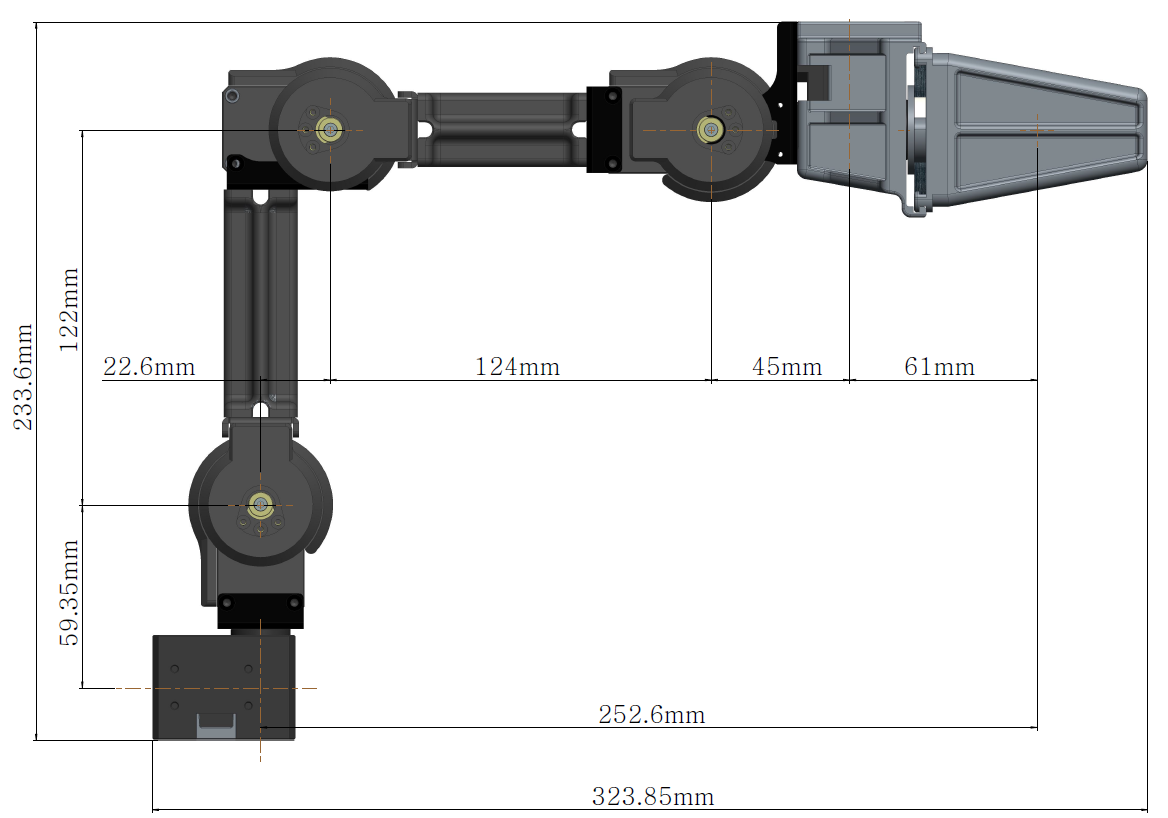
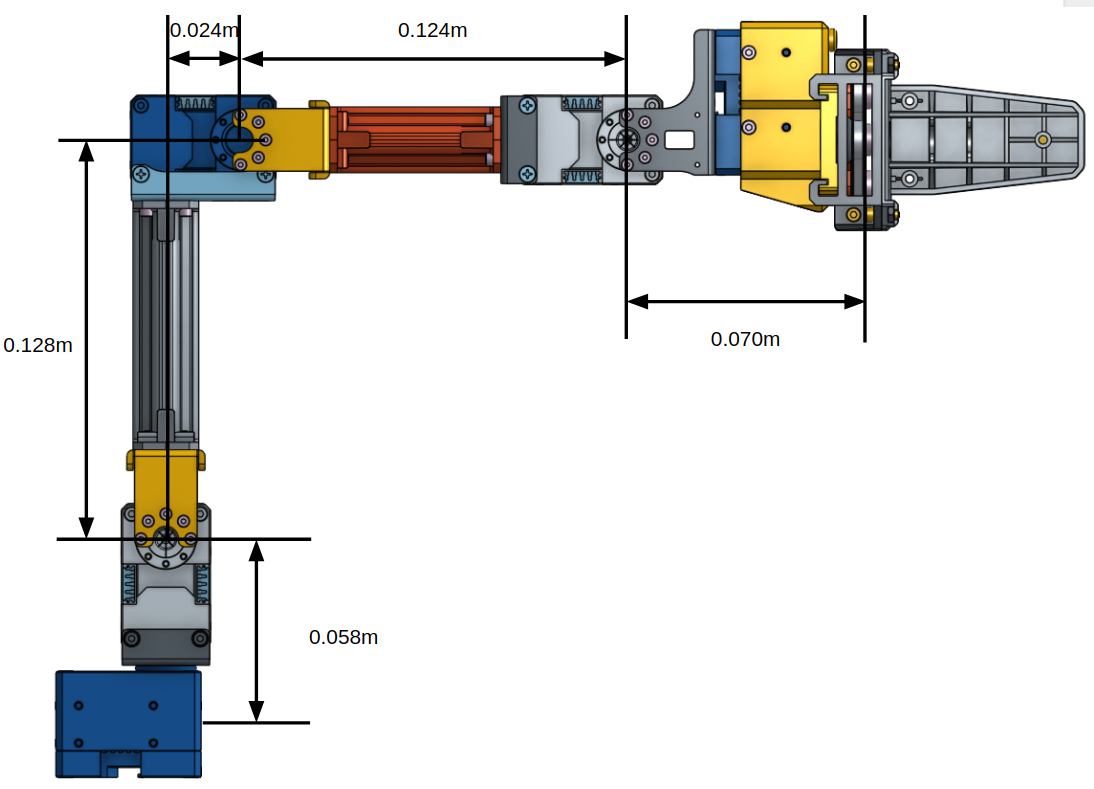
update spec for chain

diff --git a/docs/en/platform/openmanipulator.md b/docs/en/platform/openmanipulator.md
@@ -23,7 +23,7 @@ ROS-enabled OpenManipulator is a full open robot platform consisting of **OpenSo
 OpenManipulator are based on ROS and OpenSource. ROS official hardware platform ,TurtleBot series has been supporting ‘TurtleBot Arm’. The OpenManipulator has full hardware compatibility with TurtleBot3, and allows users to control it more easily by linking with the MoveIT! package. Even if you do not have a real robot, you can control the robot in the Gazebo simulator.
 
 ## [OpenHardware](#openhardware)
-The OpenManipulator is oriented towards Open Hardware. Most of the components except for some frames are uploaded as [STL files](http://www.robotis.com/service/download.php?no=767) that can be 3d printing. This allows users to modify the length of the link and the design of the robot to suit the intended use. The open manipulator also uses the **Dynamixel X series** used in TurtleBot 3. Dynamixel has a modular form and adopts daisy chain method. This allows users to easily change and add joints for some torque and degree of freedom they need. Taking advantage of these advantages, we are planning a total of seven different types (For example, Chain, SCARA, Link, Planar, Delta, Stewart and Linear) of OpenManipulator.
+The OpenManipulator is oriented towards Open Hardware. Most of the components except for some frames are uploaded as [STL files](http://www.robotis.com/service/download.php?no=690) that can be 3d printing. This allows users to modify the length of the link and the design of the robot to suit the intended use. The open manipulator also uses the **Dynamixel X series** used in TurtleBot 3. Dynamixel has a modular form and adopts daisy chain method. This allows users to easily change and add joints for some torque and degree of freedom they need. Taking advantage of these advantages, we are planning a total of seven different types (For example, Chain, SCARA, Link, Planar, Delta, Stewart and Linear) of OpenManipulator.
 
 ![](/assets/images/platform/openmanipulator/OpenManipulator_Chain_OnShape.jpg)
 
@@ -39,8 +39,6 @@ OpenManipulator is composed by [Dynamixel X series](http://emanual.robotis.com/d
 <iframe src="https://player.vimeo.com/video/236147296" width="640" height="360" frameborder="0" webkitallowfullscreen mozallowfullscreen allowfullscreen></iframe>
 <p><a href="https://vimeo.com/236147296">ROSCon 2017 Vancouver Day 1: Introducing OpenManipulator; the full open robot platform</a> from <a href="https://vimeo.com/osrfoundation">OSRF</a> on <a href="https://vimeo.com">Vimeo</a>.</p>
 
-<iframe width="560" height="315" src="https://www.youtube.com/embed/eJTIeDepmNo" frameborder="0" gesture="media" allow="encrypted-media" allowfullscreen></iframe>
-
 <iframe width="560" height="315" src="https://www.youtube.com/embed/B2pnXtooKOg" frameborder="0" gesture="media" allow="encrypted-media" allowfullscreen></iframe>
 
 <iframe width="560" height="315" src="https://www.youtube.com/embed/Qhvk5cnX2hM" frameborder="0" gesture="media" allow="encrypted-media" allowfullscreen></iframe>
@@ -51,39 +49,90 @@ OpenManipulator is composed by [Dynamixel X series](http://emanual.robotis.com/d
 
 ## [Hardware Specification](#hardware-specification)
 
-|                     | Unit    | Chain with XM430-W350                   |
-| ------------------- | ------- | --------------------------------------- |
-| **Input Voltage**   | V       | 12                                      |
-| **DOF**             | -       | 5 (4 DOF + 1 DOF Gripper)               |
-| **Payload**         | g       | 300 ~ 1000                              |
-| **Speed(Joint)**    | rad/sec | 4.82                                    |
-| **Weight**          | kg(lb)  | 0.7 (1.54)                              |
-| **Reach**           | mm (in) | 380 (14.9)                              |
-| **Rated Voltage**   | VDC     | 12                                      |
-| **Communication**   | -       | RS-485 (Multi Drop Bus)                 |
-| **Power(Joint)**    | W       | 27.6                                    |
-| **Software**        | -       | ROS, Dynamixel SDK, Arduino, Processing |
-| **Main Controller** | -       | Laptop PC, OpenCR                       |
+| Items               | Unit    | RM-X52-TNM                              | RM-X52-TNL                              |
+| ------------------- | ------- | --------------------------------------- |-----------------------------------------|
+| **Actuator**        |         | Dynamixel XM430-W350-T                  | Dynamixel XL430-W250-T                  |
+| **Input Voltage**   | V       | 12                                      | 12                                      |
+| **DOF**             | -       | 5 (4 DOF + 1 DOF Gripper)               | 5 (4 DOF + 1 DOF Gripper)               |
+| **Payload**         | g       | 500                                     | 50                                      |
+| **Speed(Joint)**    | RPM     | 46                                      | 61                                      |
+| **Weight**          | kg (lb) | 0.70  (1.54)                            | 0.51  (1.12)                            |
+| **Reach**           | mm (in) | 380   (14.9)                            | 380   (14.9)                            |
+| **Grip range**      | mm (in) | 20~75 (0.79~2.95)                       | 20~75 (0.79~2.95)                       |
+| **Communication**   | -       | TTL (Level Multidrop BUS)               | TTL (Level Multidrop BUS)               |
+| **Software**        | -       | ROS, Dynamixel SDK, Arduino, Processing | ROS, Dynamixel SDK, Arduino, Processing |
+| **Main Controller** | -       | Laptop PC, OpenCR                       | Laptop PC, OpenCR                       |
 
 ## [Dimension](#dimension)
 
 ![](/assets/images/platform/openmanipulator/OpenManipulator_Chain_spec_side.png)
 
-![](/assets/images/platform/openmanipulator/OpenManipulator_Chain_spec_gripper.jpg)
+<!-- ![](/assets/images/platform/openmanipulator/OpenManipulator_Chain_spec_gripper.jpg) -->
 
 # [Hardware Setup](#hardware-setup)
 
-[Parts of OpenManipulator](https://docs.google.com/a/robotis.com/spreadsheets/d/1h46Vw3amU0FZl3JSRS42BNoAaKeJoDlHAJGMKVe05ts/edit?usp=sharing)
+## [Part Lists](#part-lists)
 
-  * Items that are painted in purple in above link are purchased on ROBOTIS SHOP
-  * Items that are painted in green in above link are purchased on shopping mall
-  * Items that are painted in yellow in above link are 3D printing parts
+|              | Part Name | RM-X52-TNM | RM-X52-TNL |
+|---------     |---------- |---------   |----------  |
+|**Chassis Parts** |LONG LINK FRAME|1|1|
+|.                 |SHORT LINK FRAME|1|1|
+|.                 |RAIL BRACKET(LEFT)|1|1|
+|.                 |RAIL BRACKET(RIGHT)|1|1|
+|.                 |PALM GRIPPER|2|2|
+|.                 |LINK ROD|2|2|
+|.                 |FLANGE BUSH|4|4|
+|.                 |CRANK ARM|1|1|
+|.                 |RAIL BLOCK|2|2|
+|.                 |FR12_S101_K|1|1|
+|.                 |FR12_S102_K|2|2|
+|.                 |FR12_H101_K|2|2|
+|.                 |FR12_H104_K|1|1|
+|**Actuators**     |Dynamixel XM430-W350-T|5|0|
+|.                 |Dynamixel XL430-W250-T|0|5|
+|**Boards**        |OpenCR|1|1|
+|.                 |U2D2|1|1|
+|**Cables**        |CABLE_3P_100MM|1|1|
+|.                 |CABLE_3P_180MM|3|3|
+|.                 |CABLE_3P_240MM|1|1|
+|**Powers**        |SMPS 12V5A|1|1|
+|.                 |A/C Cord|1|1|
+|**Tools**         |SCREW_DRIER_DEFAULT|1|1|
+|.                 |Wrench_Hex_1_5X90|1|1|
+|.                 |Wrench_Hex_2_0X100|1|1|
+|.                 |Wrench_Hex_2_5X110|1|1|
+|**Miscellaneous** |DC12_A01_SPACER_RING|24|24|
+|.                 |WB_M2_5X12_NYLOK|8|8|
+|.                 |NUT_M2_5(0.45P)|16|16|
+|.                 |NUT_M3|4|4|
+|.                 |WB_M2X03|42|42|
+|.                 |WB_M2X04|4|4|
+|.                 |WB_M2_5X06|8|8|
+|.                 |WB_M2_5X08|16|16|
+|.                 |FHS_M2_5X14|12|12|
+|.                 |WB_M3X10|4|4|
+|.                 |WB_M2_5X04|8|8|
+|.                 |HN12_I101|3|3|
+|.                 |IGUS_JFM_1113_05|3|3|
+|.                 |DC12_CAP_IDLE|3|3|
+|.                 |GRIPPER_PAD|2|2|
 
-[DIY Manual](https://drive.google.com/open?id=1c5U0v2dQhYiulqiWI0VQMameG82WCc-4rl6J6zlQejA)
 
-CAD Files ([Onshape](http://www.robotis.com/service/download.php?no=690), [Thingiverse](https://www.thingiverse.com/thing:3069574))
+<!-- - [Parts of OpenManipulator](https://docs.google.com/a/robotis.com/spreadsheets/d/1h46Vw3amU0FZl3JSRS42BNoAaKeJoDlHAJGMKVe05ts/edit?usp=sharing) -->
+
+<!-- [DIY Manual](https://drive.google.com/open?id=1c5U0v2dQhYiulqiWI0VQMameG82WCc-4rl6J6zlQejA) -->
+
+## [3D Printed Parts](#3d-printed-parts)
+
+We offer 3D printed parts to safety. User can modify cad files and 3D Printed it to assemble OpenManipulator.
+
+- CAD Files ([Onshape](http://www.robotis.com/service/download.php?no=690), [Thingiverse](https://www.thingiverse.com/thing:3069574))
 
 ![](/assets/images/platform/openmanipulator/OpenManipulator_Chain_OnShape.jpg)
+
+## [Assembly Manual](#assembly-manual)
+
+<iframe width="560" height="315" src="https://www.youtube.com/embed/eJTIeDepmNo" frameborder="0" gesture="media" allow="encrypted-media" allowfullscreen></iframe>
 
 # [Software Setup](#software-setup)
 
@@ -364,17 +413,16 @@ Gripping (parameters : `grip_on`, `grip_off`, `neutral`)
 
 ![](/assets/images/platform/openmanipulator/OpenManipulator_SCARA_Capture.png)
 
-|                     | Unit    | Chain with XM430-W350                   |
+| Items               | Unit    |                                         |
 | ------------------- | ------- | --------------------------------------- |
+| **Actuator**        |         | Dynamixel XM430-W350-T                  |
 | **Input Voltage**   | V       | 12                                      |
 | **DOF**             | -       | 4 (3 DOF + 1 End-Effector)              |
-| **Speed(Joint)**    | rad/sec | 4.82                                    |
+| **Speed(Joint)**    | RPM     | 46                                      |
 | **Weight**          | kg(lb)  | 0.52 (1.14)                             |
 | **Reach**           | mm (in) | 234 (9.21)                              |
-| **Rated Voltage**   | VDC     | 12                                      |
-| **Communication**   | -       | RS-485 (Multi Drop Bus)                 |
-| **Power(Joint)**    | W       | 27.6                                    |
-| **Software**        | -       | ROS, Dynamixel SDK, Arduino, Processing |
+| **Communication**   | -       | TTL (Level Multidrop BUS)               |
+| **Software**        | -       | Dynamixel SDK, Arduino, Processing      |
 | **Main Controller** | -       | Laptop PC, OpenCR                       |
 
 ### Dimension
@@ -383,13 +431,11 @@ Gripping (parameters : `grip_on`, `grip_off`, `neutral`)
 
 ### Hardware Setup
 
-[Parts of OpenManipulator](https://docs.google.com/spreadsheets/d/1h46Vw3amU0FZl3JSRS42BNoAaKeJoDlHAJGMKVe05ts/edit#gid=1916070381)
+<!-- [Parts of OpenManipulator](https://docs.google.com/spreadsheets/d/1h46Vw3amU0FZl3JSRS42BNoAaKeJoDlHAJGMKVe05ts/edit#gid=1916070381) -->
 
-  * Items that are painted in purple in above link are purchased on ROBOTIS SHOP
-  * Items that are painted in green in above link are purchased on shopping mall
-  * Items that are painted in yellow in above link are 3D printing parts
+#### 3D Printed Parts
 
-CAD Files ([Onshape](http://www.robotis.com/service/download.php?no=691), [Thingiverse](https://www.thingiverse.com/thing:3069581))
+- CAD Files ([Onshape](http://www.robotis.com/service/download.php?no=691), [Thingiverse](https://www.thingiverse.com/thing:3069581))
 
 ![](/assets/images/platform/openmanipulator/OpenManipulator_SCARA_OnShape.png)
 
@@ -409,18 +455,16 @@ CAD Files ([Onshape](http://www.robotis.com/service/download.php?no=691), [Thing
 
 ![](/assets/images/platform/openmanipulator/OpenManipulator_Link_Capture.png)
 
-|                          | Unit    | Chain with XM430-W350                   |
-| ------------------------ | ------- | --------------------------------------- |
-| **Input Voltage**        | V       | 12                                      |
+| Items                    | Unit    |                                         |
+| -------------------      | ------- | --------------------------------------- |
+| **Actuator**             |         | Dynamixel XM430-W350-T                  |
 | **DOF**                  | -       | 3                                       |
 | **Payload With Suction** | g (lb)  | 400 ~ 450 (0.88 ~ 0.99)                 |
 | **Speed(Joint)**         | rad/sec | 4.82                                    |
 | **Weight**               | kg(lb)  | 0.53 (1.16)                             |
 | **Reach**                | mm (in) | 400 (12.99)                             |
-| **Rated Voltage**        | VDC     | 12                                      |
-| **Communication**        | -       | TTL (Multi Drop Bus)                 |
-| **Power(Joint)**         | W       | 27.6                                    |
-| **Software**             | -       | Dynamixel SDK, Arduino, Processing |
+| **Communication**        | -       | TTL (Level Multidrop BUS)               |
+| **Software**             | -       | Dynamixel SDK, Arduino, Processing      |
 | **Main Controller**      | -       | Laptop PC, OpenCR                       |
 
 ### Dimension
